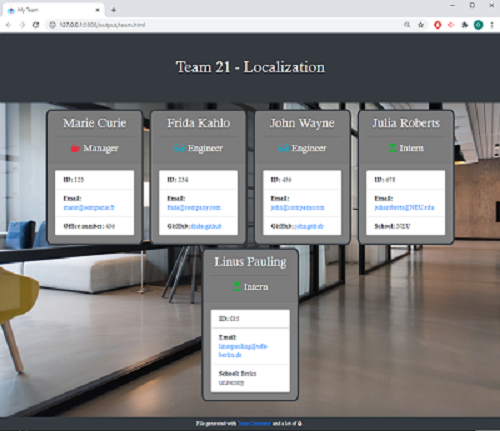
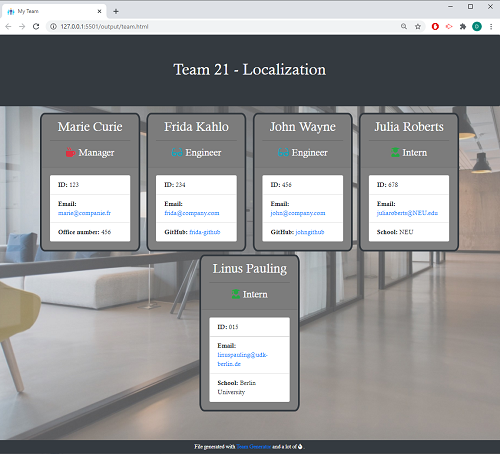
update images after code change

diff --git a/output/team.html b/output/team.html
@@ -90,7 +90,7 @@
         <ul class="list-group">
             <li class="list-group-item"><strong>ID:</strong> 015</li>
             <li class="list-group-item"><strong>Email:</strong> <a href="mailto:julia@NEU.edu">linuspauling@udk-berlin.de</a></li>
-            <li class="list-group-item"><strong>School:</strong> Berlin university</li>
+            <li class="list-group-item"><strong>School:</strong> Berlin University</li>
         </ul>
     </div>
 </div>
